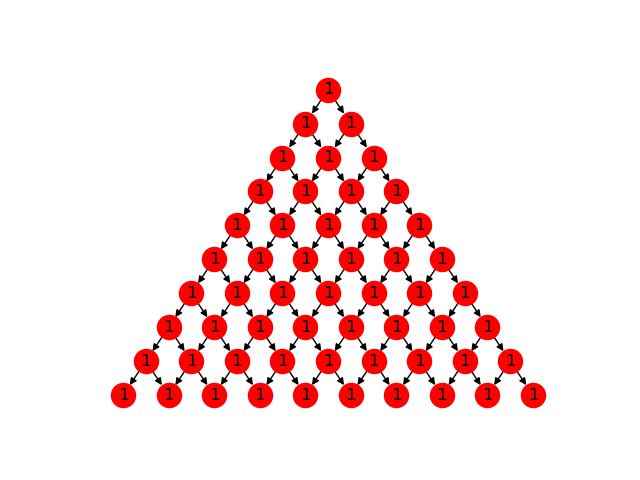
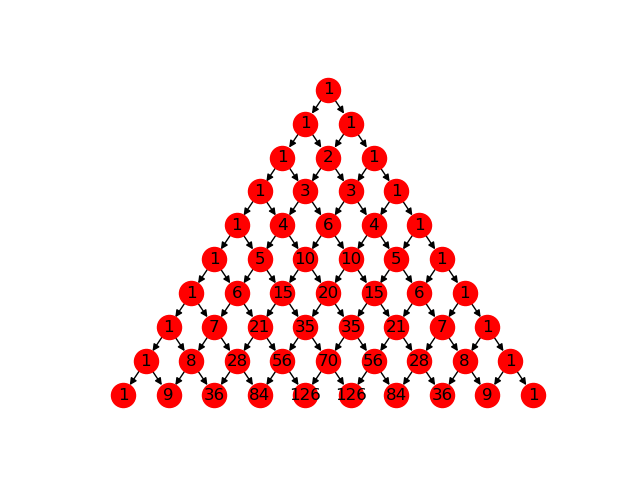
Fixed labels

diff --git a/Pascal's Triangle/PythonPascalsTriangle/src/PascalTreeIterator.py b/Pascal's Triangle/PythonPascalsTriangle/src/PascalTreeIterator.py
@@ -5,46 +5,39 @@ class PascalTreeIterator:
     currentRow = 0
     def __init__(self, tree):
         self.rootNode = tree.getRootNode()
-        self.currentNode = tree.getRootNode()
+        self.currentNode = self.rootNode
         
     def orderedNextNode(self):
-        continueCheck = True
-        nextRowCheck = True
-        if self.currentNode.get_value() == 1:
-            if self.currentNode.get_next_right() == None:
-                nextRowCheck = False
-            if nextRowCheck != False:
-                if self.hasRight() != True:
-                    continueCheck = False
-                    
-        if continueCheck == False and nextRowCheck == True:
-            while self.currentNode.get_previous_left != None:
-                self.moveLeft()
-            self.nextRowLeft()
-        elif nextRowCheck == False:
-            pass
-        else:
+        if self.hasRight():
             self.moveRight()
+        else:
+            if self.hasNextRowRight():
+                while self.hasLeft():
+                    self.moveLeft()
+                self.nextRowLeft()
     
     def hasRight(self):
         if self.currentNode.get_previous_right() != None:
             if self.currentNode.get_previous_right().get_next_right() != None:
                 return True
         return False
-    def hasLeft(self):
-        if self.currentNode.get_previous_left().get_next_left() != None:
+    def isRootNode(self):
+        if self.currentNode.get_previous_left() == None and self.currentNode.get_previous_right() == None:
             return True
+        return False
+    def hasLeft(self):
+        if self.currentNode.get_previous_left():
+            if self.currentNode.get_previous_left().get_next_left() != None:
+                return True
         return False
     def moveLeft(self):
         #Will do nothing if it can't move any further along the row.
-        if self.currentNode.get_previous_left() != None and self.currentNode.get_next_left() != None:
-            self.currentNode = self.currentNode.get_previous_left()
-            self.currentNode = self.currentNode.get_next_left()
+        self.currentNode = self.currentNode.get_previous_left()
+        self.currentNode = self.currentNode.get_next_left()
             
     def moveRight(self):
-        if self.currentNode.get_previous_right() != None and self.currentNode.get_next_right() != None:
-            self.currentNode = self.currentNode.get_previous_right()
-            self.currentNode = self.currentNode.get_next_left()
+        self.currentNode = self.currentNode.get_previous_right()
+        self.currentNode = self.currentNode.get_next_right()
     
     def hasNextRowLeft(self):
         if self.currentNode.get_next_left() != None:

diff --git a/Pascal's Triangle/PythonPascalsTriangle/src/GraphGenerator.py b/Pascal's Triangle/PythonPascalsTriangle/src/GraphGenerator.py
@@ -38,6 +38,7 @@ class GraphGenerator:
             self.labels[i] = labelString
             self.iterator.orderedNextNode()
         print(self.labels)
+        
     def getLabels(self):
         return self.labels
     
